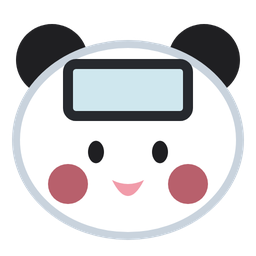
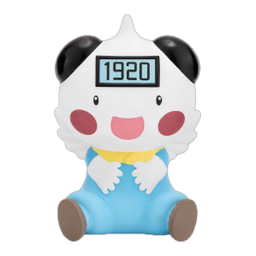
앱·트레이 아이콘을 새 요정 그림으로 교체
build/icon.png(1024)·assets/icon.png(256)은 전신, 트레이(16/32px)는 얼굴 부분. 예전 icon.svg 삭제

Claude-Session: https://claude.ai/code/session_01BeHRJx3uviUDpjJ8hyuzU4

diff --git a/CLAUDE.md b/CLAUDE.md
@@ -12,7 +12,7 @@
 - `src/core/nudge.js` — 무작위 할 일 확인 말풍선 순수 함수 (빈도별 간격, 나중에/숨기기/오늘 끄기).
 - `src/core/prefs.js` — 요정 표시 설정(크기·투명도·마우스 반응·숨기기) 정규화.
 - `src/main.js` — 메인 프로세스: 창 생성, IPC, 상태 저장, 트레이·단축키, 30초 주기 점검(날짜 전환·시계 변경·말풍선), 절전 복귀 처리.
-- `assets/` — 요정 그림(`fairy.png`, LCD 숫자와 눈은 지운 상태 — 화면에서 SVG로 덧그림), 앱·트레이 아이콘(`icon.svg`가 원본).
+- `assets/` — 요정 그림(`fairy.png`, LCD 숫자와 눈은 지운 상태 — 화면에서 SVG로 덧그림), 앱 아이콘 `icon.png`·트레이 아이콘 `tray*.png`(요정 그림 원본에서 생성, 설치 파일용 1024px은 `build/icon.png`).
 - `src/store.js` — `userData/state.json` 저장/로드 (원자적 쓰기).
 - `src/preload.js` — renderer에 `window.fairy`(IPC)와 `window.wt`(계산 함수)를 노출.
 - `src/renderer/` — `fairy.*`(요정 위젯), `settings.*`(설정 창). 번들러 없이 순수 HTML/CSS/JS.
